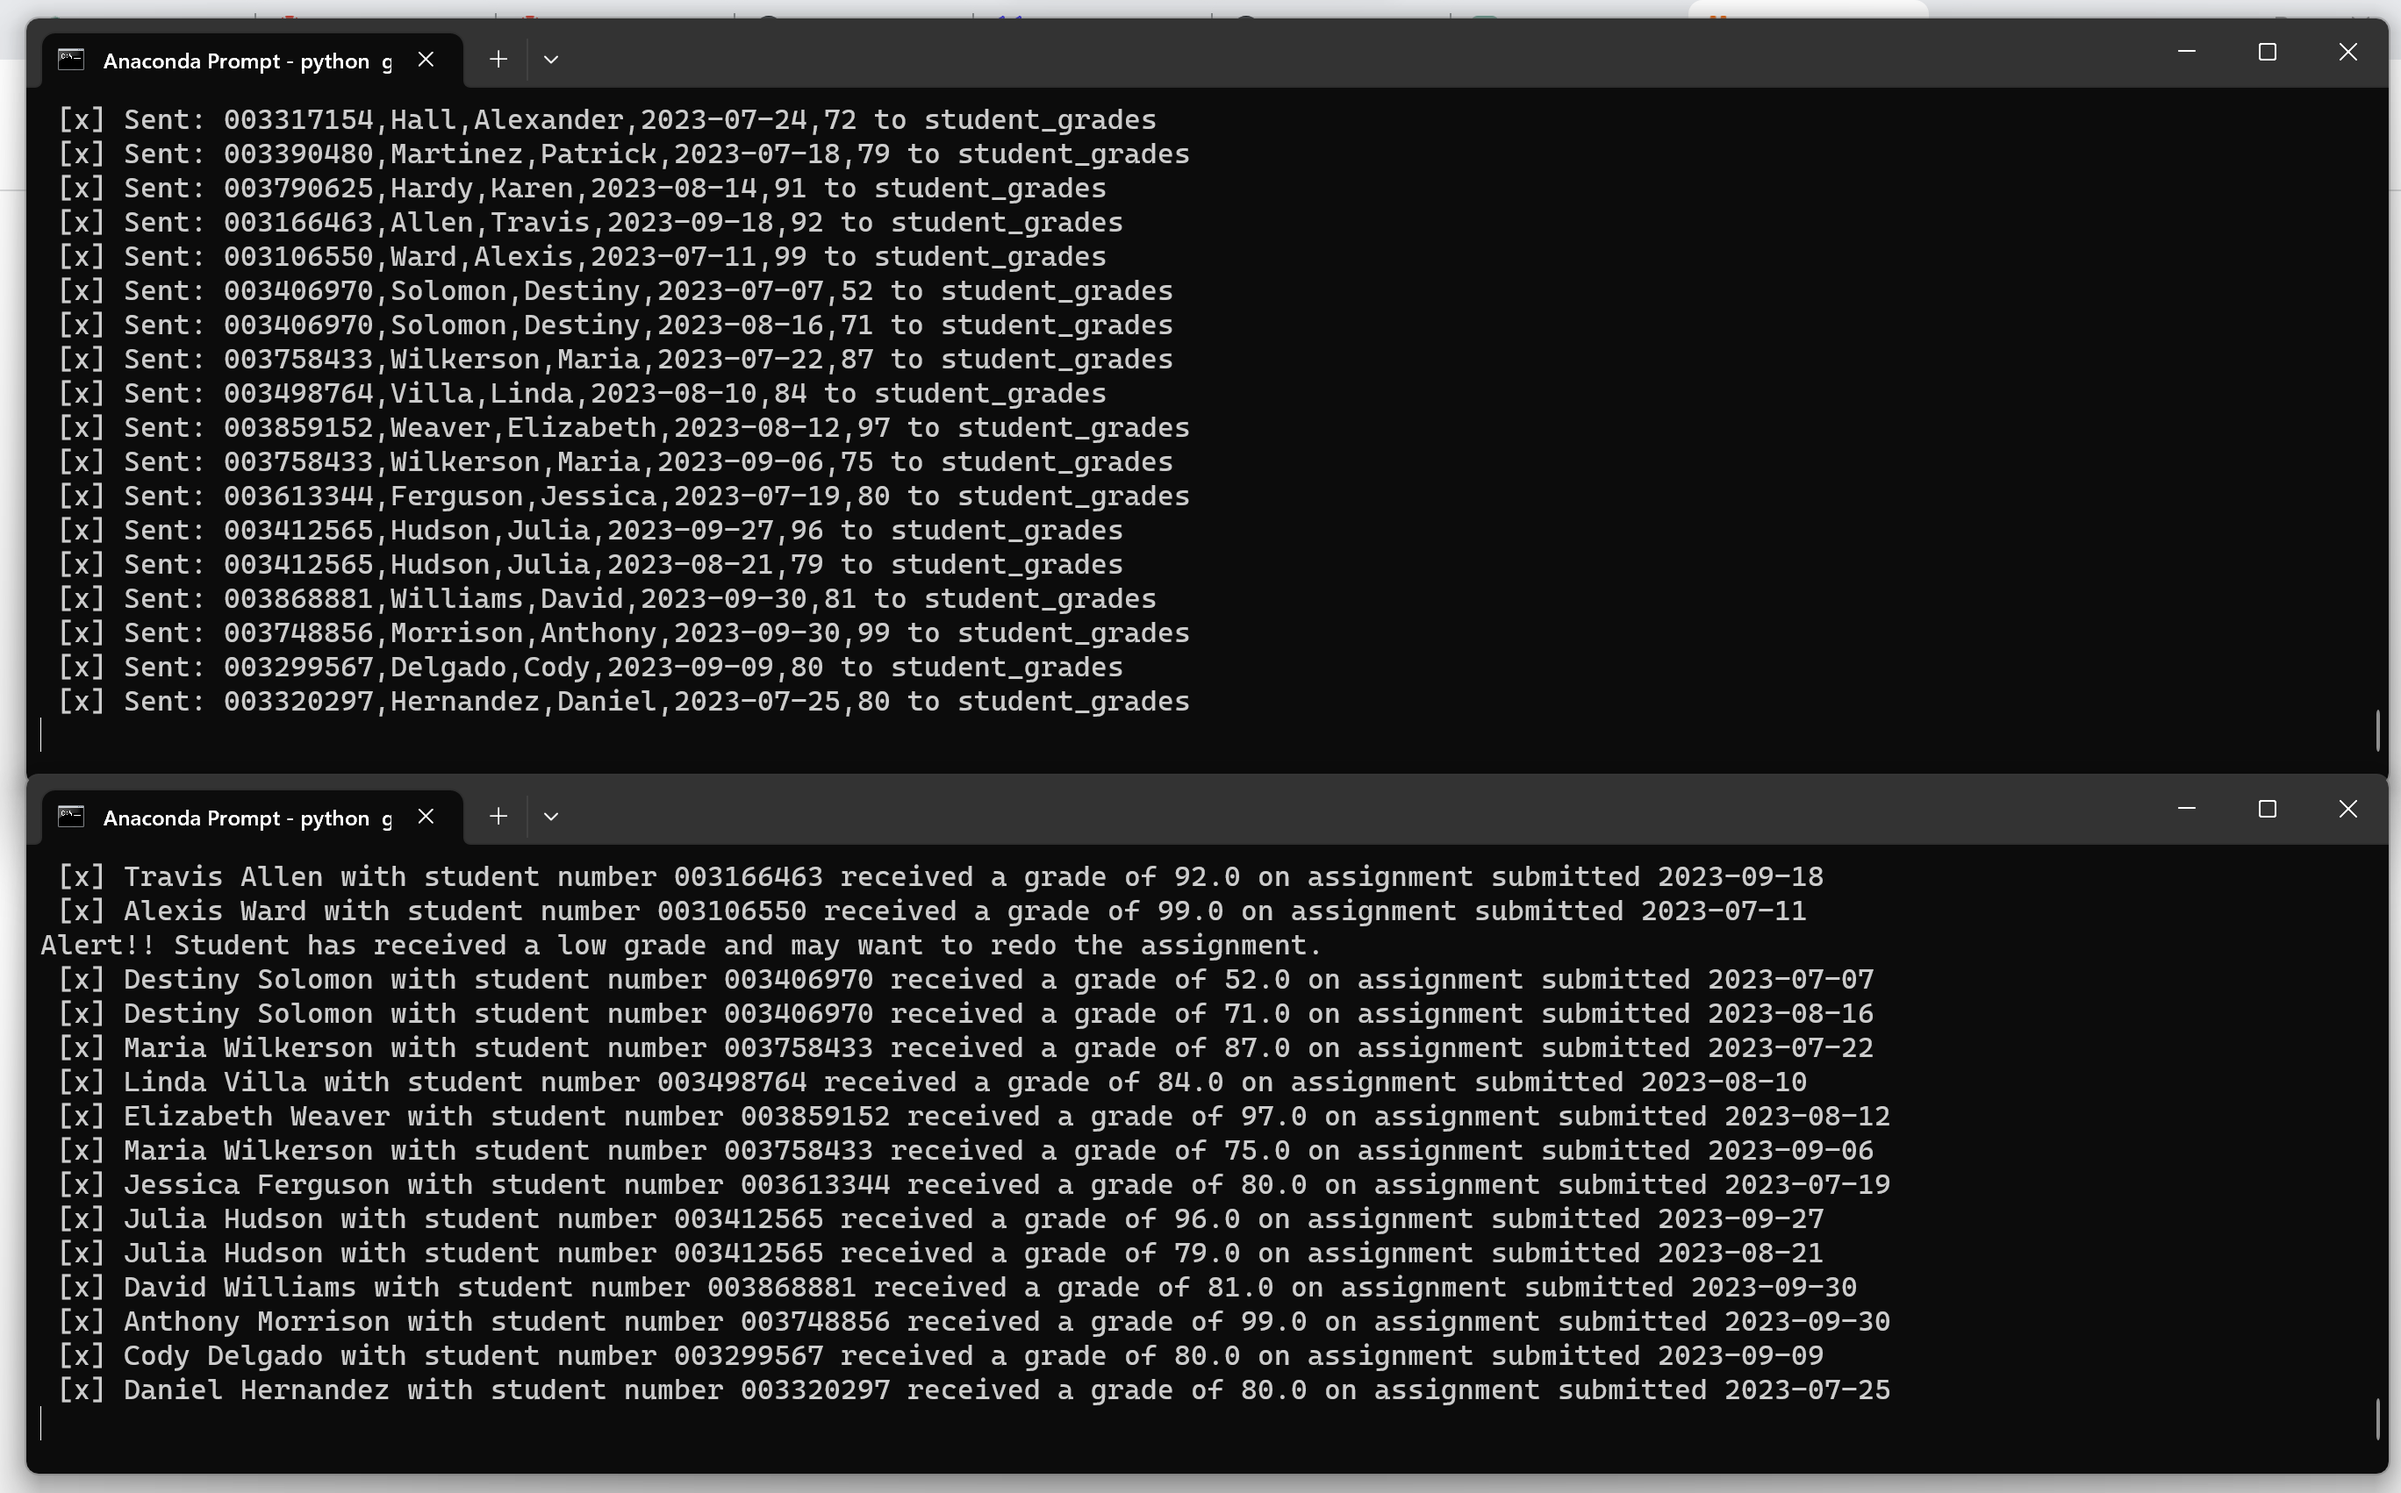
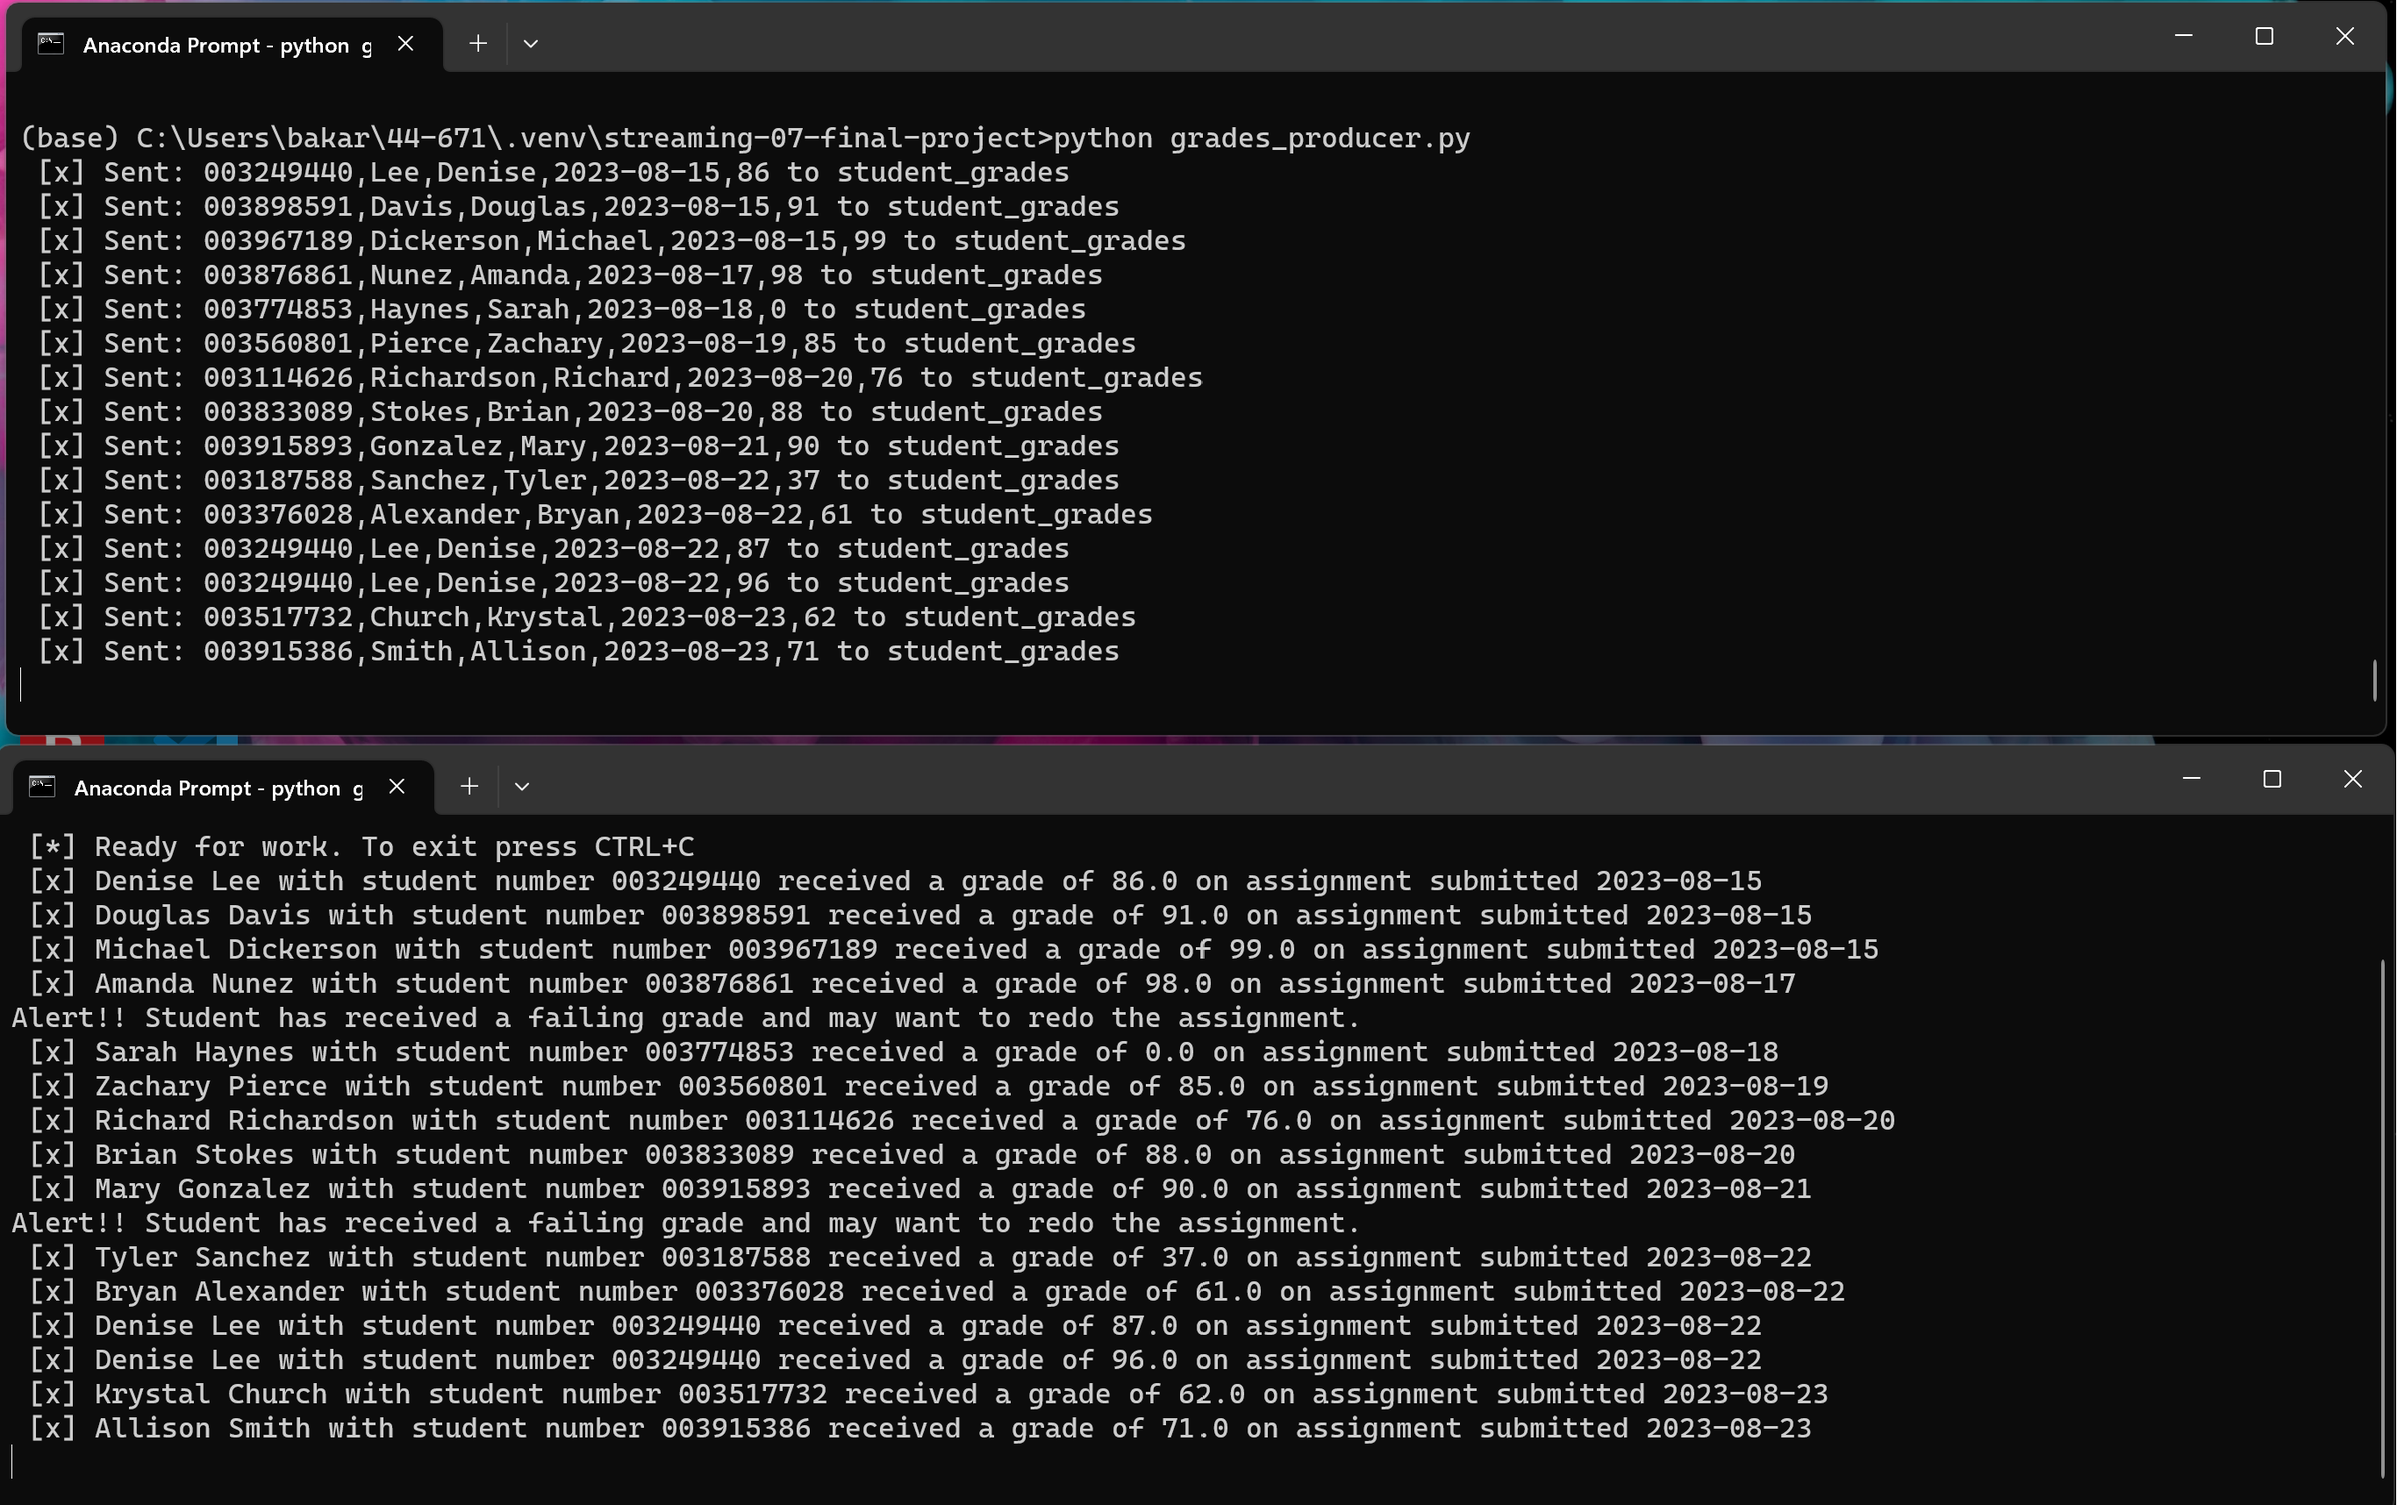
Finished project

Changed region(s): [[0.0, 0.0, 1.0, 1.0]]

diff --git a/grades_producer.py b/grades_producer.py
@@ -10,6 +10,7 @@
 import random
 from faker import Faker
 from datetime import datetime, timedelta
+from operator import itemgetter
 import pika
 import sys
 import webbrowser
@@ -26,7 +27,12 @@ ADDRESS_TUPLE = (HOST, PORT)
 # Generate fake data for 50 students and 15 assignments each
 class_size = 50
 num_assignments = 15
-percent_low_grades = 5  # Percentage of grades between 0 and 69
+
+percent_low_grades = 5  # Percentage of grades between 1 and 59
+percent_zeros = 2 # Percentage of grades that are zeros
+
+start_date = datetime(2023, 8, 14)
+end_date = datetime.now()
 
 data = []
 
@@ -42,13 +48,15 @@ def generate_data():
         student_number = generate_student_number()
 
         for j in range(num_assignments):
-            assignment_date = fake.date_time_between(start_date='-90d', end_date='now').strftime('%Y-%m-%d')
+            assignment_date = fake.date_time_between(start_date + timedelta(days=random.randint(0, (end_date - start_date).days))).strftime('%Y-%m-%d')
 
-            # Assign 15% of grades between 0 and 69, and the rest between 70 and 100
-            if random.randint(1, 100) <= percent_low_grades:
-                grade = random.randint(0, 69)
+            # Assign 2% of grades as zero, 5% between 1 and 59, and the rest between 60 and 100
+            if random.randint(1, 100) <= percent_zeros:
+                grade = 0
+            elif random.randint(1, 100) <= percent_low_grades:
+                grade = random.randint(1, 59)
             else:
-                grade = random.randint(70, 100)
+                grade = random.randint(60, 100)
 
             data.append({
                 'student_number': student_number,
@@ -86,6 +94,8 @@ def send_message():
     try:
         # Shuffle the data to randomize the order
         random.shuffle(data)
+        # Sort the data by assignment date in chronological order
+        data.sort(key=itemgetter('assignment_date'))
         # create a blocking connection to the RabbitMQ server
         conn = pika.BlockingConnection(pika.ConnectionParameters(HOST))
         # use the connection to create a communication channel

diff --git a/grades_consumer.py b/grades_consumer.py
@@ -1,6 +1,6 @@
 """
     This program receives messages from the producer in the "student_grades" queue and prints an alert
-    any time the student receives a grade below 70%.
+    any time the student receives a grade below 60%.
 
     Author: Brendi Kargel
     Date: October 3, 2023
@@ -20,8 +20,8 @@ ADDRESS_TUPLE = (HOST, PORT)
 
 # Declare variables
 queue = "student_grades"
-alert_grade = 70
-alert = "Alert!! Student has received a low grade and may want to redo the assignment."
+alert_grade = 60
+alert = "Alert!! Student has received a failing grade and may want to redo the assignment."
 
 # Define the callback for grades
 def grades_callback(ch, method, properties, body):
@@ -37,7 +37,7 @@ def grades_callback(ch, method, properties, body):
     grade = float(student_grades[4])
 
     #Calculating the grade and creating the alert
-    if grade < 70:
+    if grade < alert_grade:
         alert_needed = True
 
         if alert_needed:

diff --git a/README.md b/README.md
@@ -1,5 +1,6 @@
 # streaming-07-final-project
-This repository is a continuation of streaming-05-smart-smoker and contains the consumers for the previously created bbq_producer in streaming-05-smart-smoker.
+
+This project streams faked student data to a queue every 5 seconds. The message is then picked up by the consumer and an alert is sent if the assignment grade is less than a specified threshold. For this project, that grade is below 60%.
 
 ## Prerequisites
 1. Git
@@ -9,10 +10,46 @@ This repository is a continuation of streaming-05-smart-smoker and contains the 
 1. RabbitMQ installed and running locally
 
 ## Description - Producer
-The producer bbq_producer.py reads the file smoker-temps.csv every 30 seconds and sends a message to each of 3 queues, "01-smoker", "02-food-A", and "03-food-B" with the timestamp and temperature of the respective smoker or food. In order to make it easier to read the temperatures, I used the print function rather than the log function. I also added the text "temp not recorded" if there was not a temperature for that element at that particular timestamp.
+The grades_producer.py file contains code which fakes data for 50 students, with 15 assignments each. The following fields are generated with fake data: student_number, last_name, first_name, assignment_date, and grade. The student number is generated to always begins with "003" and is seven digits long using this code:
+
+def generate_student_number():
+    return '003' + str(random.randint(100000, 999999))
+    
+The grades are generated randomly within parameters:
+
+2% of grades are zeros
+5% of grades are between 1% and 59%
+The remaining grades are above 60%
+
+    if random.randint(1, 100) <= percent_zeros:
+        grade = 0
+    elif random.randint(1, 100) <= percent_low_grades:
+        grade = random.randint(1, 59)
+    else:
+        grade = random.randint(60, 100)
+
+The start and end date for generation of the assignment_date is set to the beginning of the school year and now, respectively. These variables can be changed to reflect any period of time.
+
+start_date = datetime(2023, 8, 14)
+end_date = datetime.now()
+for j in range(num_assignments):
+            assignment_date = fake.date_time_between(start_date + timedelta(days=random.randint(0, (end_date - start_date).days))).strftime('%Y-%m-%d')
+
+The data is shuffled to prevent listing all 15 assignments for each student together and then streamed in chronological order by submission date:
+
+random.shuffle(data)
+data.sort(key=itemgetter('assignment_date'))
+
+Each record is then sent to the student_grades queue, where it will wait to be received by the consumer.
+
+Variables are utilized for the parameters in this scipt so that they can be easily changed for individualized use.
 
 ## Description - Consumer
-There are a total of 3 consumers, one for each of the three queues - "01-smoker", "02-food-A", and "03-food-B". Smoker_consumer consumes the messages sent to the "01-smoker" queue and prints an alert if there is more than a 15 degree decrease in temperature in 2.5 minutes. FoodA_consumer and foodB_consumer consume the messages sent to "02-food-A" and "03-food-B" queues, respectively. Both print an alert if their respective temperatures change less than 1 degree in a 10 minute time period.
+The grades_consumer.py file contains code that reads each of the messages from the "student_grades" queue and prints an alert if the grade is below a 60%:
+
+alert = "Alert!! Student has received a failing grade and may want to redo the assignment."
+
+Again, variables are utilized to make changing of any of these parameters easier.
 
 ## Screenshot of concurrent processes
 ![Alt text](https://github.com/bkargel/streaming-07-final-project/blob/main/concurrent_processes.png?raw=true)
